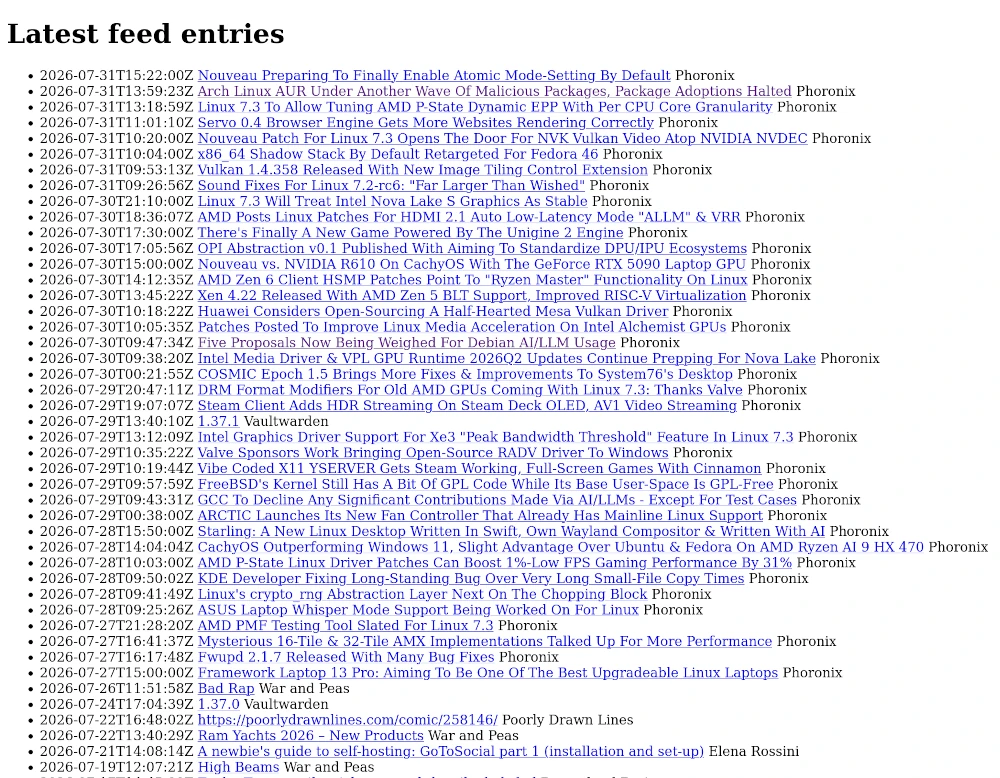
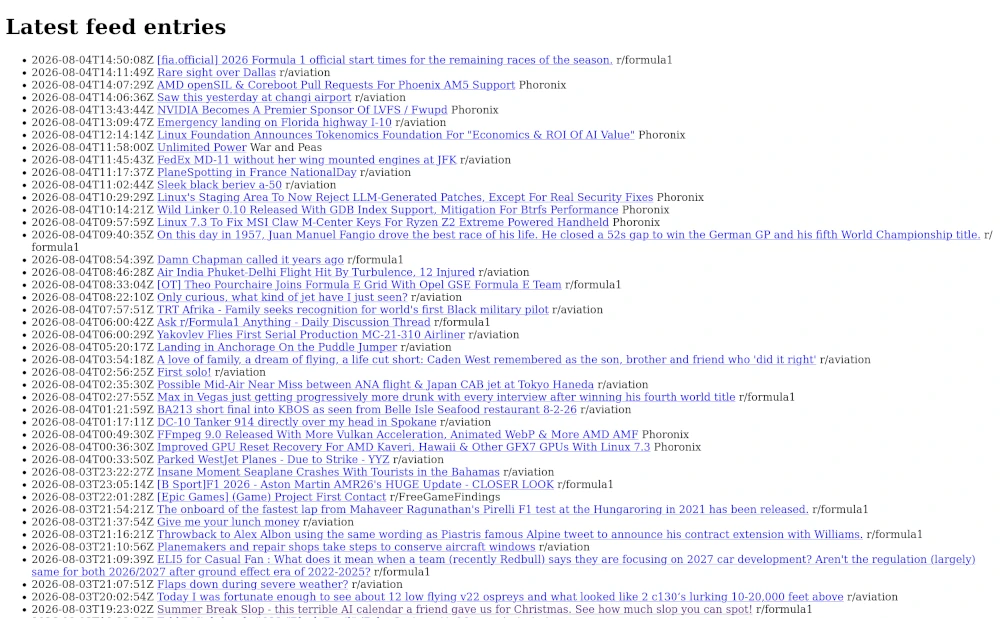
add request throttling

diff --git a/src/main/java/ee/fakeplastictrees/morningcoffee/reader/FeedClient.java b/src/main/java/ee/fakeplastictrees/morningcoffee/reader/FeedClient.java
@@ -8,7 +8,10 @@ import java.net.http.HttpClient;
 import java.net.http.HttpClient.Redirect;
 import java.net.http.HttpRequest;
 import java.net.http.HttpResponse;
+import java.net.http.HttpResponse.BodyHandler;
 import java.time.Duration;
+import java.util.Locale;
+import java.util.concurrent.ConcurrentHashMap;
 import org.apache.logging.log4j.LogManager;
 import org.apache.logging.log4j.Logger;
 
@@ -16,8 +19,13 @@ class FeedClient {
   private static final Logger logger = LogManager.getLogger();
 
   private static final int MAX_RESPONSE_BODY_BYTES = 5 * 1024 * 1024;
+  private static final String USER_AGENT =
+      "MorningCoffee/1.0 (+https://github.com/parfentjev/morning-coffee)";
   private static final Duration HTTP_CLIENT_TIMEOUT = Duration.ofSeconds(10);
+  private static final Duration REQUEST_THROTTLING_DURATION = Duration.ofSeconds(5);
 
+  private final ConcurrentHashMap<String, ThrottlingManager<HttpResponse<byte[]>>>
+      throttlingManagers;
   private final HttpClient httpClient;
 
   public FeedClient() {
@@ -26,18 +34,23 @@ class FeedClient {
             .connectTimeout(HTTP_CLIENT_TIMEOUT)
             .followRedirects(Redirect.NORMAL)
             .build();
+
+    this.throttlingManagers = new ConcurrentHashMap<>();
   }
 
+  /// Requests the given `url` and returns the raw response body if the server responds with 200 OK.
+  ///
+  /// @param url address of an RSS/Atom feed
+  /// @throws FeedClientException if the URL is malformed, the request fails, or the server returns
+  /// an unexpected status code
+  /// @throws InterruptedException if the thread is interrupted
   public byte[] fetchFeed(String url) throws FeedClientException, InterruptedException {
     try {
       var uri = new URI(url);
-      var request = HttpRequest.newBuilder().uri(uri).timeout(HTTP_CLIENT_TIMEOUT).GET().build();
-
       logger.debug("fetching feed: {}", uri);
-      var bodyHandler =
-          HttpResponse.BodyHandlers.limiting(
-              HttpResponse.BodyHandlers.ofByteArray(), MAX_RESPONSE_BODY_BYTES);
-      var response = httpClient.send(request, bodyHandler);
+
+      var response =
+          throttlingManager(uri).execute(() -> httpClient.send(request(uri), bodyHandler()));
       if (response.statusCode() != HttpURLConnection.HTTP_OK) {
         var statusCode = response.statusCode();
         var message = "%s returned unexpected status code: %d".formatted(uri, statusCode);
@@ -52,5 +65,25 @@ class FeedClient {
       var message = "failed to execute http request: %s".formatted(url);
       throw new FeedClientException(message, e);
     }
+  }
+
+  private HttpRequest request(URI uri) {
+    return HttpRequest.newBuilder()
+        .header("User-Agent", USER_AGENT)
+        .uri(uri)
+        .timeout(HTTP_CLIENT_TIMEOUT)
+        .GET()
+        .build();
+  }
+
+  private BodyHandler<byte[]> bodyHandler() {
+    return HttpResponse.BodyHandlers.limiting(
+        HttpResponse.BodyHandlers.ofByteArray(), MAX_RESPONSE_BODY_BYTES);
+  }
+
+  private ThrottlingManager<HttpResponse<byte[]>> throttlingManager(URI uri) {
+    return throttlingManagers.computeIfAbsent(
+        uri.getHost().toLowerCase(Locale.ROOT),
+        _ -> new ThrottlingManager<>(REQUEST_THROTTLING_DURATION));
   }
 }

diff --git a/src/test/java/ee/fakeplastictrees/morningcoffee/reader/ThrottlingManagerTest.java b/src/test/java/ee/fakeplastictrees/morningcoffee/reader/ThrottlingManagerTest.java
@@ -1,0 +1,50 @@
+package ee.fakeplastictrees.morningcoffee.reader;
+
+import static org.junit.jupiter.api.Assertions.assertTrue;
+
+import java.time.Duration;
+import java.util.concurrent.Executors;
+import org.junit.jupiter.api.Test;
+
+public class ThrottlingManagerTest {
+  @Test
+  public void shouldDelayRequestExecution() throws Exception {
+    var expectedDelay = Duration.ofSeconds(2);
+    var manager = new ThrottlingManager<Long>(expectedDelay);
+
+    Duration time1, time2;
+    try (var executor = Executors.newVirtualThreadPerTaskExecutor()) {
+      var request1 = executor.submit(() -> manager.execute(System::nanoTime));
+      var request2 = executor.submit(() -> manager.execute(System::nanoTime));
+
+      time1 = Duration.ofNanos(request1.get());
+      time2 = Duration.ofNanos(request2.get());
+    }
+
+    var actualDelay = time1.minus(time2).abs();
+    assertTrue(
+        actualDelay.compareTo(expectedDelay) >= 0,
+        () -> "expected at least %s seconds delay, got %s".formatted(expectedDelay, actualDelay));
+  }
+
+  @Test
+  public void managersShouldBeIndependent() throws Exception {
+    var delay = Duration.ofSeconds(2);
+    var manager1 = new ThrottlingManager<Long>(delay);
+    var manager2 = new ThrottlingManager<Long>(delay);
+
+    Duration time1, time2;
+    try (var executor = Executors.newVirtualThreadPerTaskExecutor()) {
+      var request1 = executor.submit(() -> manager1.execute(System::nanoTime));
+      var request2 = executor.submit(() -> manager2.execute(System::nanoTime));
+
+      time1 = Duration.ofNanos(request1.get());
+      time2 = Duration.ofNanos(request2.get());
+    }
+
+    var actualDelay = time1.minus(time2).abs();
+    assertTrue(
+        actualDelay.compareTo(delay) < 0,
+        () -> "expected less than %s seconds delay, got %s".formatted(delay, actualDelay));
+  }
+}

diff --git a/src/main/java/ee/fakeplastictrees/morningcoffee/reader/ThrottlingManager.java b/src/main/java/ee/fakeplastictrees/morningcoffee/reader/ThrottlingManager.java
@@ -1,0 +1,49 @@
+package ee.fakeplastictrees.morningcoffee.reader;
+
+import java.io.IOException;
+import java.time.Duration;
+import java.util.concurrent.Semaphore;
+import java.util.concurrent.TimeUnit;
+
+class ThrottlingManager<T> {
+  private final Duration delay;
+  private final Semaphore semaphore;
+  private long nextRequestNanoTime;
+
+  ThrottlingManager(Duration delay) {
+    this.delay = delay;
+    this.semaphore = new Semaphore(1);
+    this.nextRequestNanoTime = System.nanoTime();
+  }
+
+  /// Executes a request after the configured delay has elapsed since the previous request
+  /// completed. This reduces the likelihood of server-side rate limiting.
+  ///
+  /// @throws InterruptedException if the thread is interrupted
+  /// @throws IOException if an I/O error occurs
+  T execute(ThrottableRequest<T> request) throws InterruptedException, IOException {
+    semaphore.acquire();
+
+    // Always release the semaphore, but reset the deadline only after a request attempt.
+    try {
+      awaitDelay();
+      try {
+        return request.run();
+      } finally {
+        nextRequestNanoTime = System.nanoTime() + delay.toNanos();
+      }
+    } finally {
+      semaphore.release();
+    }
+  }
+
+  /// Blocks the current thread until the next request is allowed.
+  ///
+  /// @throws InterruptedException if the thread is interrupted
+  private void awaitDelay() throws InterruptedException {
+    var remainingTime = nextRequestNanoTime - System.nanoTime();
+    if (remainingTime > 0) {
+      TimeUnit.NANOSECONDS.sleep(remainingTime);
+    }
+  }
+}

diff --git a/src/main/java/ee/fakeplastictrees/morningcoffee/reader/ScheduledFeedReader.java b/src/main/java/ee/fakeplastictrees/morningcoffee/reader/ScheduledFeedReader.java
@@ -9,7 +9,6 @@ import java.util.concurrent.ExecutionException;
 import java.util.concurrent.ExecutorService;
 import java.util.concurrent.Executors;
 import java.util.concurrent.ScheduledExecutorService;
-import java.util.concurrent.ThreadLocalRandom;
 import java.util.concurrent.TimeUnit;
 import org.apache.logging.log4j.LogManager;
 import org.apache.logging.log4j.Logger;
@@ -71,14 +70,6 @@ public class ScheduledFeedReader {
     for (var feed : repository.getFeeds()) {
       tasks.add(
           () -> {
-            // Sometimes my genious is frightening...
-            // Or how to avoid 429 on reddit :D
-            //
-            // I know, some per-host throttling should be added,
-            // But not today. I want to go play The Outer Worlds 2.
-            var delayMs = ThreadLocalRandom.current().nextLong(60_000);
-            Thread.sleep(delayMs);
-
             processFeed(feed);
 
             return null;

diff --git a/src/main/java/ee/fakeplastictrees/morningcoffee/reader/ThrottableRequest.java b/src/main/java/ee/fakeplastictrees/morningcoffee/reader/ThrottableRequest.java
@@ -1,0 +1,12 @@
+package ee.fakeplastictrees.morningcoffee.reader;
+
+import java.io.IOException;
+
+/// A request operation executed by `ThrottlingManager` according to its configuration.
+interface ThrottableRequest<T> {
+  /// Executes the request operation.
+  ///
+  /// @throws InterruptedException if the thread is interrupted
+  /// @throws IOException if an I/O error occurs
+  T run() throws InterruptedException, IOException;
+}

diff --git a/src/main/java/ee/fakeplastictrees/morningcoffee/repository/Repository.java b/src/main/java/ee/fakeplastictrees/morningcoffee/repository/Repository.java
@@ -90,7 +90,7 @@ public class Repository {
         from entries e
         join feeds f on f.id = e.feed_id
         where f.enabled = true
-        order by e.published_at desc limit ?;
+        order by e.id desc limit ?;
         """;
     try (var connection = client.connect();
         var statement = connection.prepareStatement(sql)) {

diff --git a/todo.md b/todo.md
@@ -1,4 +1,2 @@
 1. Consider propagating SQLException to ScheduledFeedReader and logging there.
-2. Add per-host request throttling.
-3. Add database connection pool.
-4. Add tests.
+2. Add database connection pool.
